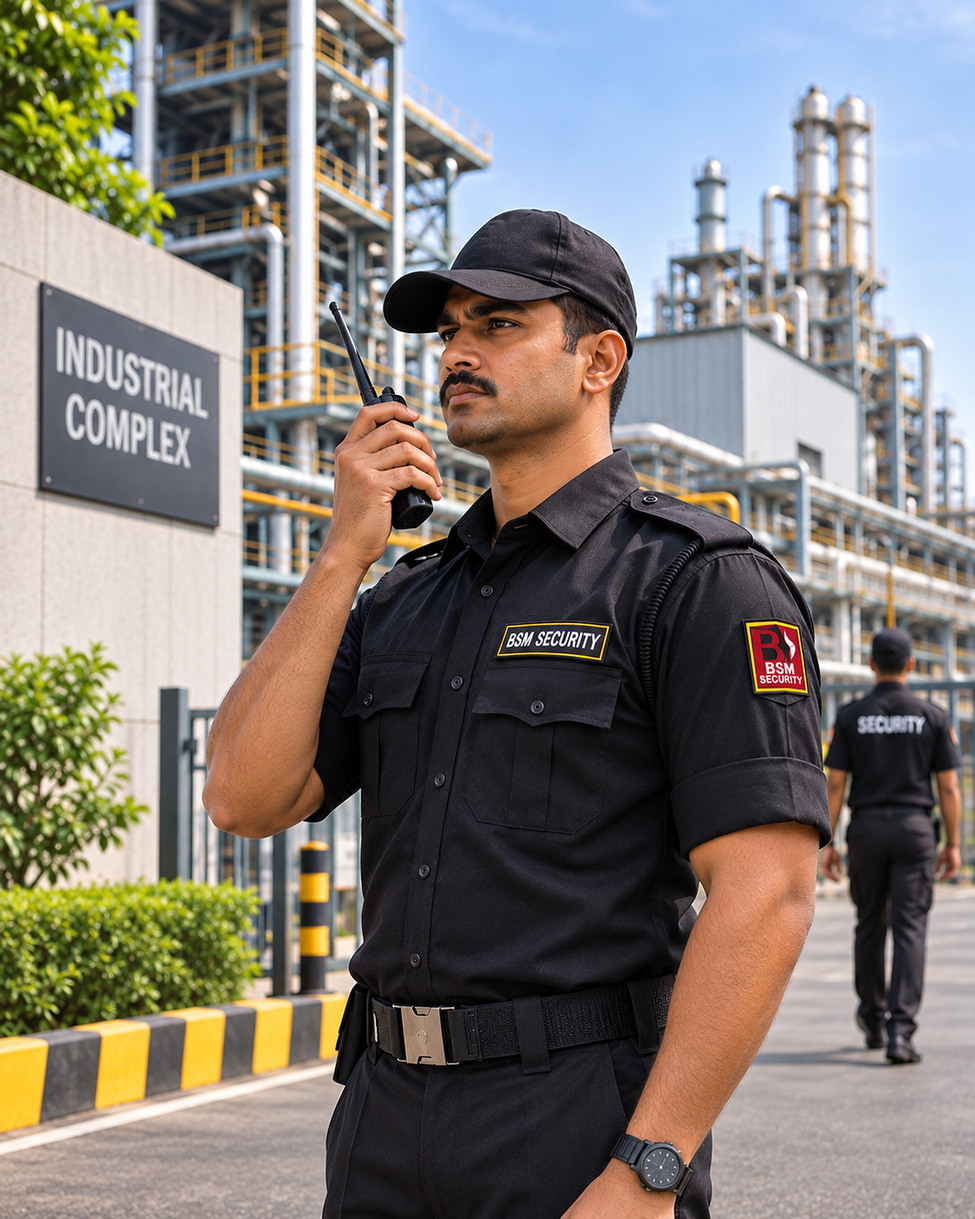
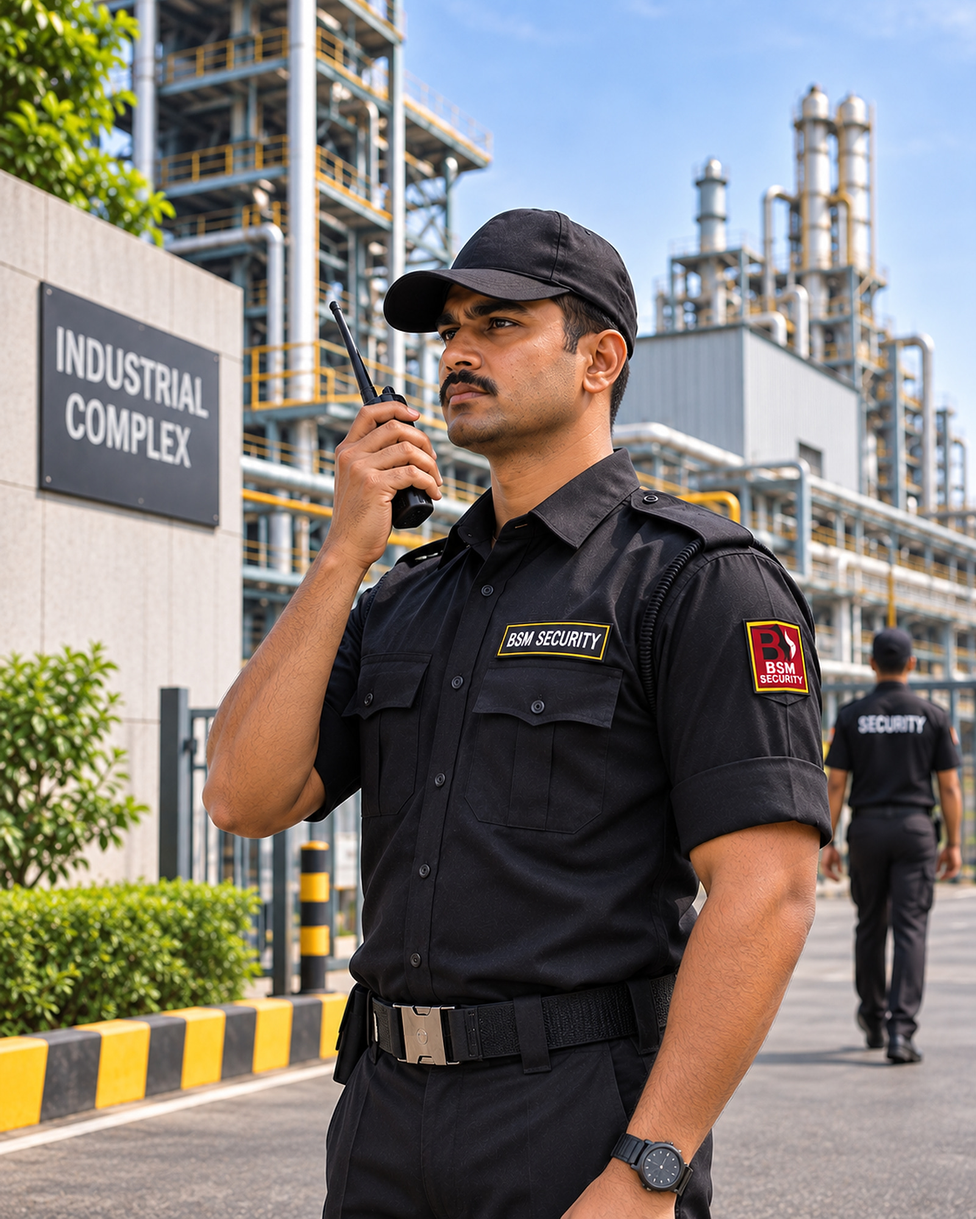
Services: show each photograph whole at its native ratio

diff --git a/lib/media.ts b/lib/media.ts
@@ -19,6 +19,8 @@ export type Shot = {
   label: string;
   /** What BSM's replacement photograph should show. */
   brief: string;
+  /** Native aspect ratio, so the whole photograph is shown uncropped. */
+  ratio?: string;
 };
 
 export const media = {
@@ -105,60 +107,70 @@ export const media = {
     alt: "Two uniformed security officers on post at the gated entrance of a government building, with the national flag flying above the dome behind them",
     label: "Public sector and government premises",
     brief: "Supplied by BSM for the public sector, government and defence service category.",
+    ratio: "1122 / 1402",
   },
   industrialCorporateSecurity: {
     src: "/media/industrial-corporate-security.jpg",
     alt: "Security officer with a radio on post outside an industrial complex, with plant structures behind",
     label: "Industrial and corporate premises",
     brief: "Supplied by BSM for the industrial and corporate service category.",
+    ratio: "1122 / 1402",
   },
   securityGuardServices: {
     src: "/media/security-guard-services.jpg",
     alt: "Uniformed security officer at a corporate office entrance while a visitor passes through the access gate",
     label: "Guarding and visitor management",
     brief: "Supplied by BSM for the security guard services category.",
+    ratio: "1122 / 1402",
   },
   bouncerPersonalSecurity: {
     src: "/media/bouncer-personal-security.jpg",
     alt: "Suited personal security officers managing a roped guest arrival at a venue entrance",
     label: "Bouncer and personal security",
     brief: "Supplied by BSM for the bouncer and personal security category.",
+    ratio: "1199 / 1312",
   },
   accessControlSurveillance: {
     src: "/media/access-control-surveillance.jpg",
     alt: "Security officer on radio beside a monitoring station showing camera feeds, with a dome camera above the entrance",
     label: "Access control and surveillance",
     brief: "Supplied by BSM for the access control and surveillance category.",
+    ratio: "1402 / 1122",
   },
   bankingCommercialSecurity: {
     src: "/media/banking-commercial-security.jpg",
     alt: "Security officers at a bank entrance, one screening a visitor at the walk-through detector",
     label: "Banking and commercial premises",
     brief: "Supplied by BSM for the banking and commercial category.",
+    ratio: "1536 / 1024",
   },
   residentialInstitutionalSecurity: {
     src: "/media/residential-institutional-security.jpg",
     alt: "Security officers at the lit entrance of a residential community, with a vehicle at the boom barrier",
     label: "Residential and institutional premises",
     brief: "Supplied by BSM for the residential and institutional category.",
+    ratio: "1122 / 1402",
   },
   weddingEventSecurity: {
     src: "/media/wedding-event-security.jpg",
     alt: "Event security team on a red-carpet entrance at a decorated wedding venue, with guests screened at the detector",
     label: "Wedding and event security",
     brief: "Supplied by BSM for the wedding, event and specialised category.",
+    ratio: "1536 / 1024",
   },
   securitySupervisionManagement: {
     src: "/media/security-supervision-management.jpg",
     alt: "Supervisor overseeing operators at a control room wall of camera feeds",
     label: "Supervision and management",
     brief: "Supplied by BSM for the supervision and management category.",
+    ratio: "1536 / 1024",
   },
   securityTrainingDevelopment: {
     src: "/media/security-training-development.jpg",
     alt: "Instructor addressing ranks of security personnel standing to attention on a training ground",
     label: "Training and personnel development",
     brief: "Supplied by BSM for the training and personnel development category.",
+    ratio: "1671 / 941",
   },
   leaderPrincipalPartner: {
     src: "",

diff --git a/components/ui/MediaFrame.tsx b/components/ui/MediaFrame.tsx
@@ -41,6 +41,11 @@ export function MediaFrame({
   const alt = altProp ?? shot?.alt;
   const label = labelProp ?? shot?.label ?? "Image";
   const note = noteProp ?? shot?.brief;
+  /* A shot that declares its own ratio is shown whole, never cropped. */
+  const frameRatio = shot?.ratio ?? ratio;
+  /* The parallax drift needs the image oversized; without it the frame
+     would crop ~10% off every edge for no reason. */
+  const drifts = parallax > 0;
 
   return (
     <figure className={`group relative ${className}`} data-parallax-scope>
@@ -48,10 +53,13 @@ export function MediaFrame({
         data-clip
         /* Subtle brass keyline on every photograph — one hairline, no glow. */
         className="relative w-full overflow-hidden border-2 border-brass/55 bg-surface transition-colors duration-500 group-hover:border-brass/80"
-        style={{ aspectRatio: ratio }}
+        style={{ aspectRatio: frameRatio }}
       >
         {src ? (
-          <div className="absolute inset-[-10%]" data-parallax={parallax}>
+          <div
+            className={drifts ? "absolute inset-[-10%]" : "absolute inset-0"}
+            data-parallax={drifts ? parallax : undefined}
+          >
             <Image
               src={src}
               alt={alt ?? label}

diff --git a/app/services/page.tsx b/app/services/page.tsx
@@ -146,7 +146,7 @@ export default function ServicesPage() {
                 <MediaFrame
                   shot={shot}
                   figure={`Fig. ${service.index} / ${service.title}`}
-                  ratio="4 / 5"
+                  parallax={0}
                   sizes="(max-width: 1024px) 100vw, 35vw"
                 />
               </div>
